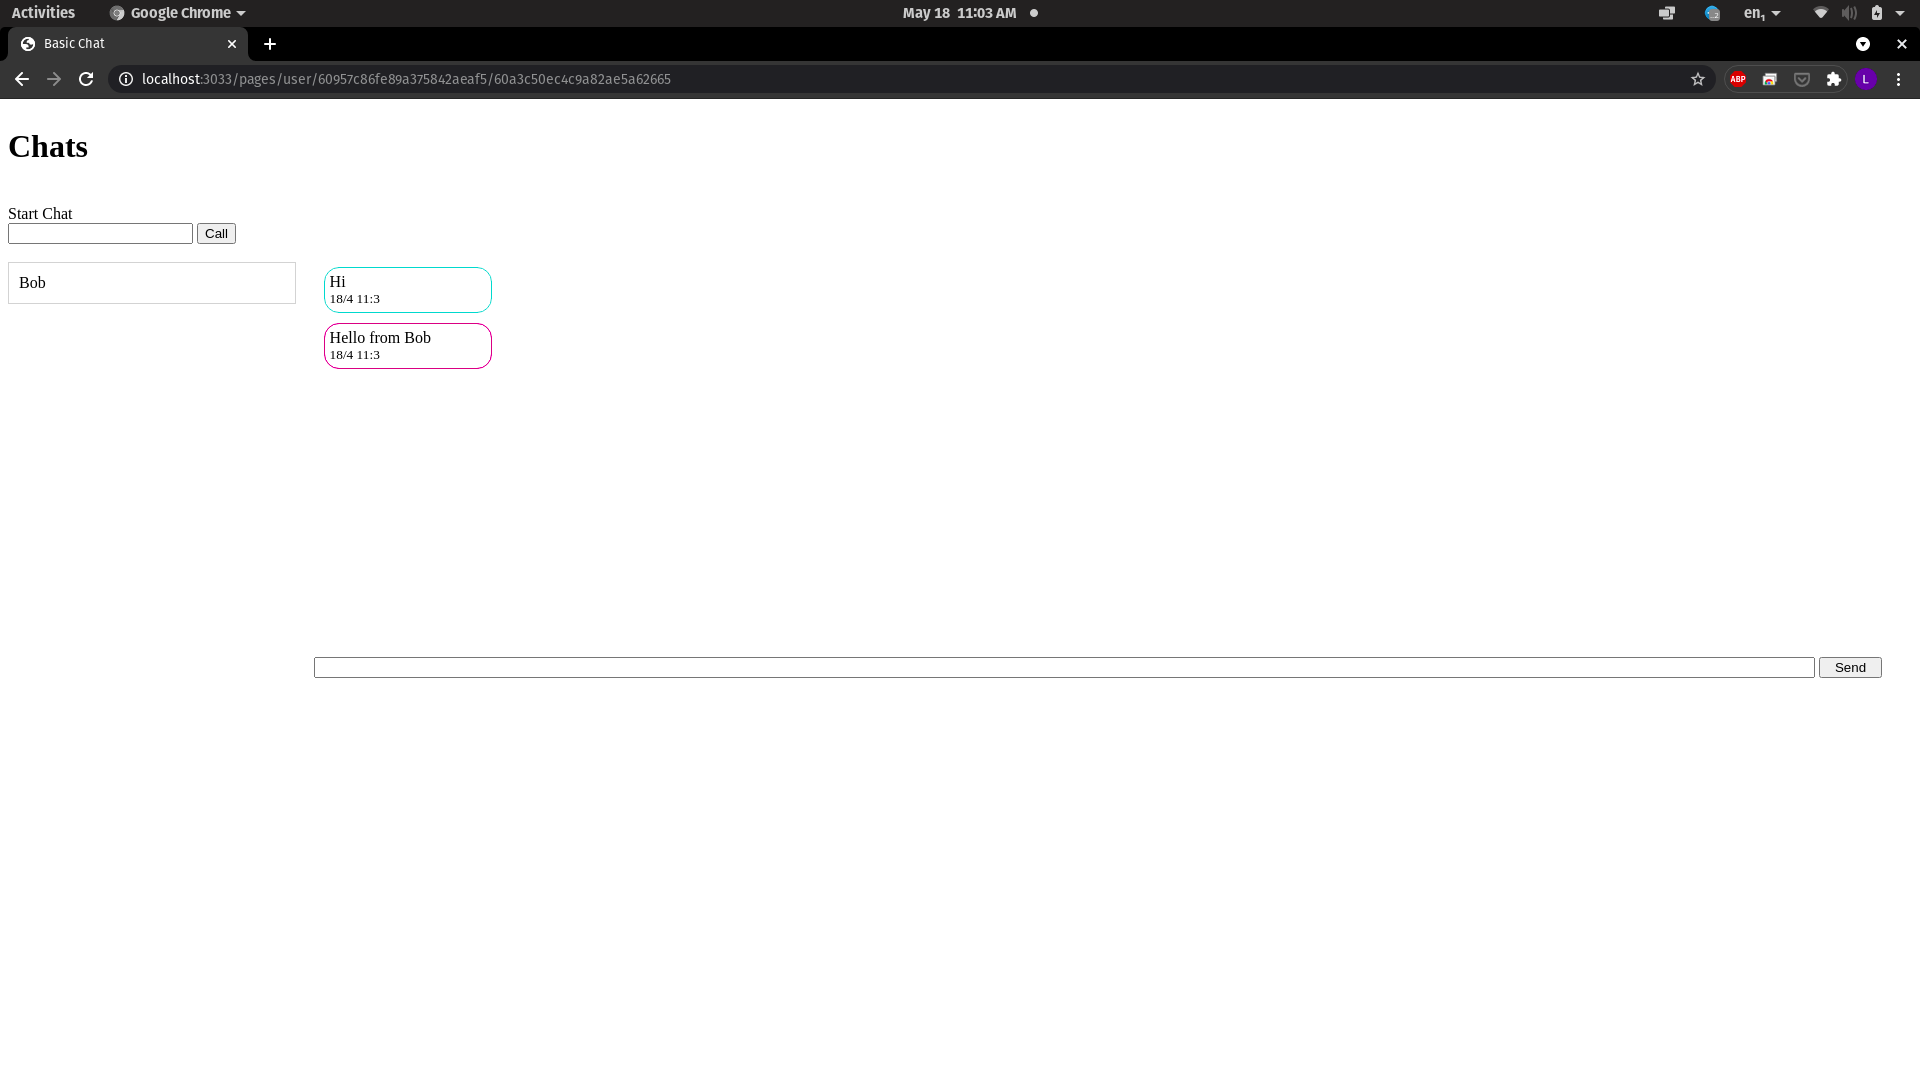
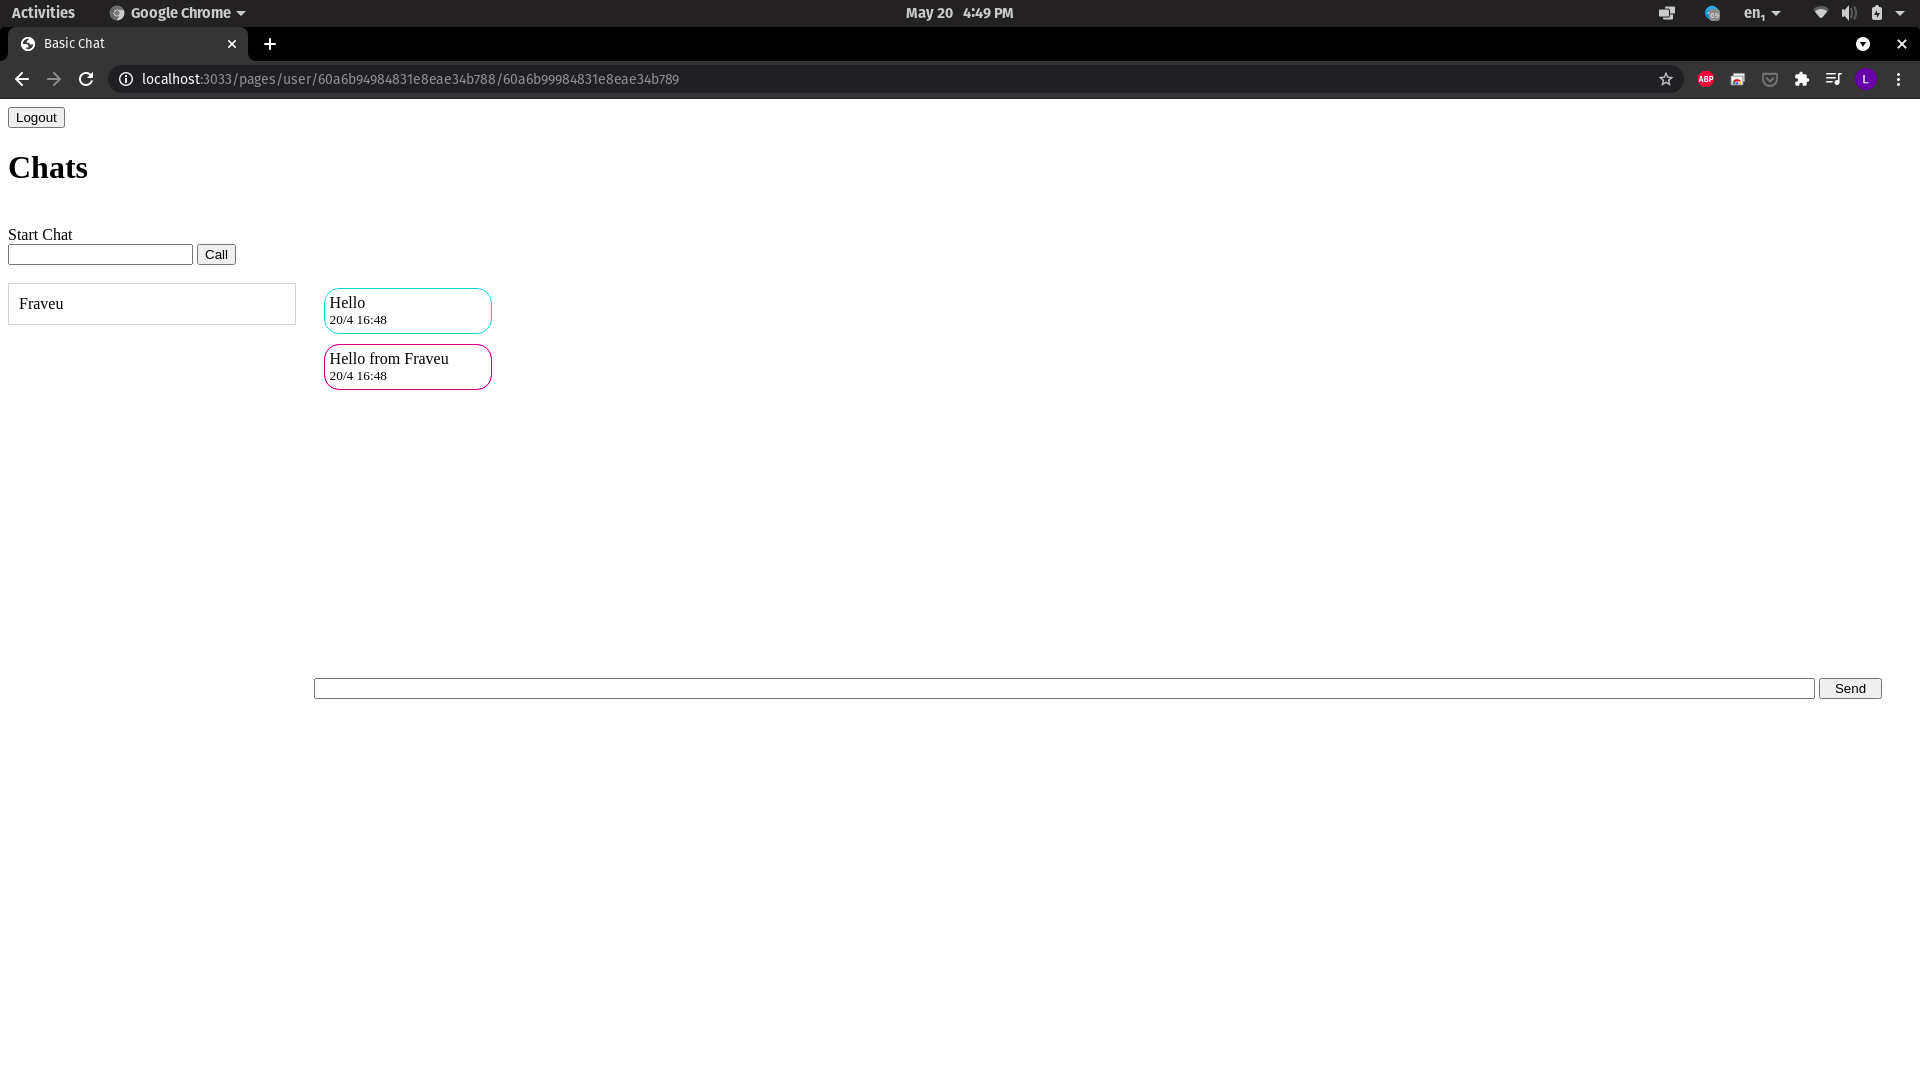
Adjusting README

diff --git a/src/websocket/chat.ts b/src/websocket/chat.ts
@@ -1,21 +1,8 @@
 import { io } from "../app";
-import { UserRepository } from "../repositories/UserRepository";
 import { ChatRepository } from "../repositories/ChatRepository";
 
 io.on('connect', async (socket) => {
-    const userRepository = new UserRepository();
     const chatRepository = new ChatRepository();
-
-    socket.on("send_username", async (params, callback) => {
-        // const user = await userRepository.checkIfUserExistsByName(params);
-
-        // if (user) {
-        //     callback(user);
-        // } else {
-        //     const newUser = await userRepository.createNewUser(params, socket.id);
-        //     callback(newUser);
-        // }
-    });
 
     socket.on("call_messages", async (params) => {
         socket.join(params.chat);

diff --git a/readme.md b/readme.md
@@ -34,21 +34,25 @@ MongoDB Connected
 
 ## Usage
 
-After starting the application go to http://localhost:3033/pages. This is the main page, where you get to choose a username to chat with other people. There is no authentication, yet, so you can choose a random username and start chatting.
+After starting the application go to http://localhost:3033/pages. This is the main page, where you can create an user with password to chat with anyone.
+
+If the username you typed still doesn't exists, you can create a new user clicking "Create New User". Or if you want to login, click the "Login" button.
 
 ![alt text](./docs/images/mainpage-chat.png)
 
-After clicking on "Go" button, it will redirect you to the chats of that user.
+After clicking Login/Create New User you will be redirected to the chats page, where you can start chatting.
 
 ![alt text](./docs/images/chatspage-chat.png)
 
-To start a new chat, just type the username of another user in the "Start Chat" field, and click on "Call" button. It will show the chat with the username of the user you're chatting with.
+To start a new chat, just type the username of another user in the "Start Chat" field, and click on "Call" button. It will show the username of the user you just called.
 
-![alt text](./docs/images/newchat-chat.png)
+![alt text](./docs/images/startchat-chat.png)
 
 To start chatting is just click on the chat, the page will reload and open the messages with a text field, to send new messages.
 
 ![alt text](./docs/images/chatting-chat.png)
+
+To log out of the chat, just click Logout.
 
 ## Credits
 
